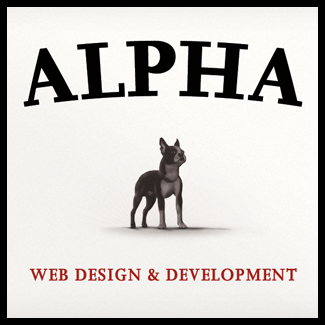
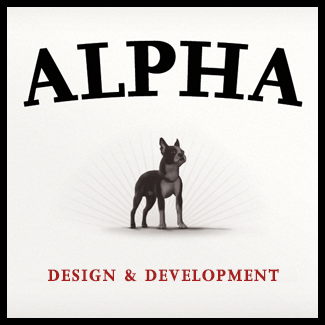
Winston Image added devices

Changed region(s): [[0.0923, 0.8, 0.9231, 0.8923]]

diff --git a/index.html b/index.html
@@ -172,7 +172,7 @@
 <section class="after-slider" id="about-section">
 
     <div class="about-circle" id="about-circle">
-        <img src="uploaded/winston.jpg" alt="Alpha Design &amp; Development mascot" itemprop="image"/>
+        <img src="uploaded/winston.png" alt="Alpha Design &amp; Development mascot" itemprop="image"/>
     </div>
 
     <aside class="icon wave" data-anchor-target="#about-circle" data-bottom-top="top:153px;"
